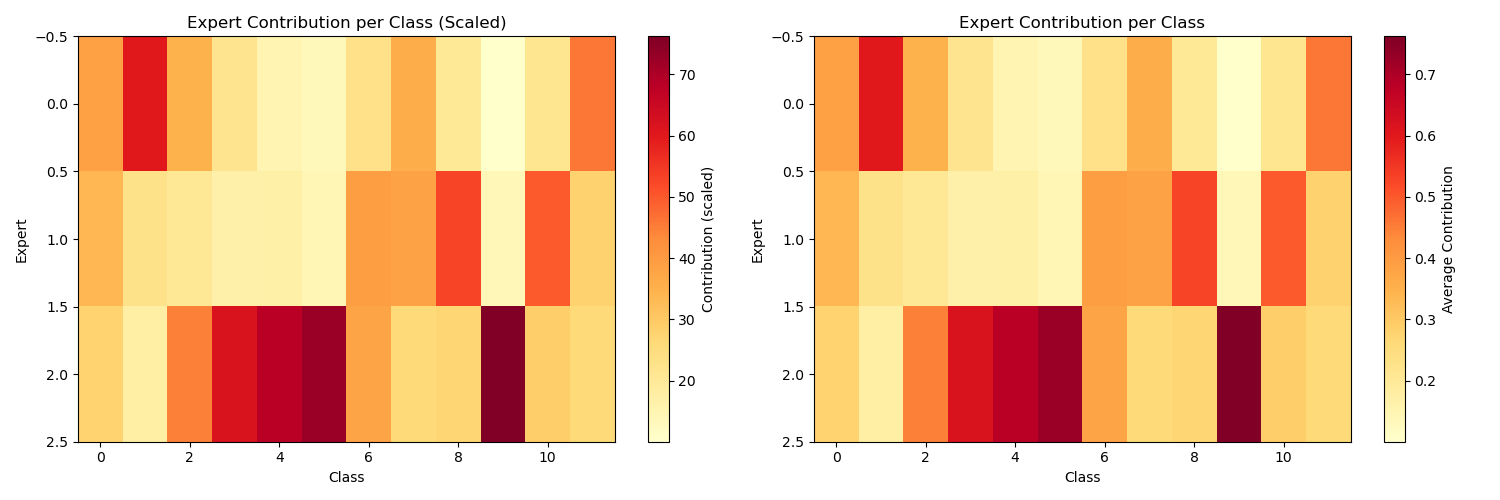
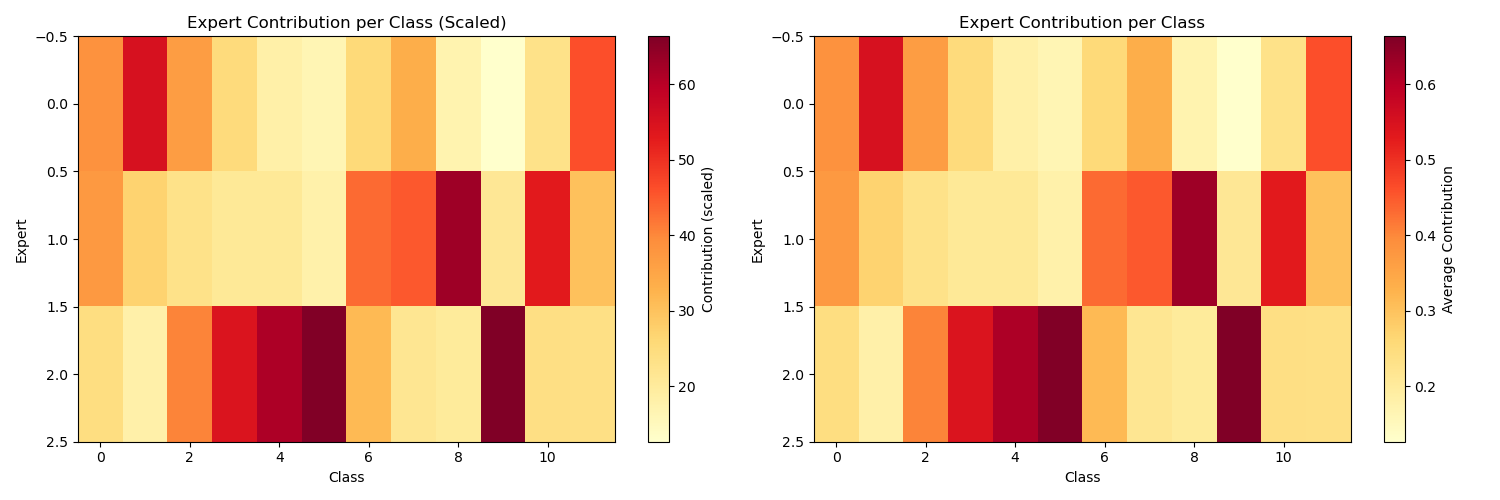
feat: fix the accuracy issue for task b

diff --git a/evaluate_task_b.py b/evaluate_task_b.py
@@ -12,7 +12,7 @@ from tqdm import tqdm
 
 from merge_model import MergedMoEModel
 from train import analyze_experts, plot_expert_analysis
-from data_loader_dep import load_data, CAS771Dataset
+from data_loader_dep import load_data, CAS771Dataset, calculate_normalization_stats
 
 def load_dataset(batch_size=64):
     """Load the TaskB dataset using the pre-saved .pth files
@@ -109,9 +109,15 @@ def load_dataset(batch_size=64):
     # Convert labels to tensors
     all_test_labels = torch.tensor(all_test_labels, dtype=torch.long)
     
-    # Calculate normalization stats
-    mean = [0.485, 0.456, 0.406]  # Using standard ImageNet mean/std
-    std = [0.229, 0.224, 0.225]
+    # Calculate normalization stats directly from the dataset for consistency with training
+    # First create a temporary dataset and loader without normalization
+    temp_transform = transforms.Compose([transforms.ToTensor()])
+    temp_dataset = CAS771Dataset(all_test_data, all_test_labels, transform=temp_transform)
+    temp_loader = DataLoader(temp_dataset, batch_size=batch_size, shuffle=False, num_workers=2, pin_memory=True)
+    
+    # Calculate mean and std
+    mean, std = calculate_normalization_stats(temp_loader)
+    print(f"Calculated normalization stats - mean: {mean}, std: {std}")
     
     # Define transform
     transform = transforms.Compose([
@@ -181,13 +187,32 @@ def load_best_model(model_dir='best_models/TaskB', num_classes=None, num_experts
     model = MergedMoEModel(num_classes=num_classes, num_experts=num_experts)
     
     # Load model state
-    if 'model_state_dict' in checkpoint:
-        model.load_state_dict(checkpoint['model_state_dict'])
-    else:
-        model.load_state_dict(checkpoint)
+    try:
+        if 'model_state_dict' in checkpoint:
+            model.load_state_dict(checkpoint['model_state_dict'])
+        else:
+            # Try loading the state dict directly
+            try:
+                model.load_state_dict(checkpoint)
+            except Exception as e:
+                print(f"Error loading direct state dict: {e}")
+                # This could be a complete model object instead of a state dict
+                if hasattr(checkpoint, 'state_dict'):
+                    model.load_state_dict(checkpoint.state_dict())
+    except Exception as e:
+        print(f"Error loading model: {e}")
+        raise
     
     print(f"Loaded model from {model_path}")
-    print(f"Model's reported accuracy: {checkpoint.get('accuracy', 'N/A')}%")
+    # Extract accuracy from filename if not in checkpoint
+    if 'accuracy' not in checkpoint:
+        try:
+            accuracy = float(model_path.split('_')[-2])
+            print(f"Model's expected accuracy: {accuracy}%")
+        except:
+            print(f"Could not determine accuracy from filename")
+    else:
+        print(f"Model's reported accuracy: {checkpoint.get('accuracy', 'N/A')}%")
     
     return model, model_path
 
@@ -349,9 +374,7 @@ def display_results(accuracy, class_accuracies, test_samples, class_names, model
     # Perform expert analysis
     print("\nPerforming detailed expert analysis...")
     expert_class_accuracy, expert_avg_contributions = analyze_experts(model, test_loader, device=device, num_classes=len(class_names))
-    
-    # The analyze_experts function already prints the analysis, so we don't need to duplicate it here
-    
+        
     # Save results to JSON
     results_path = os.path.join(output_dir, "results.json")
     with open(results_path, 'w') as f:
